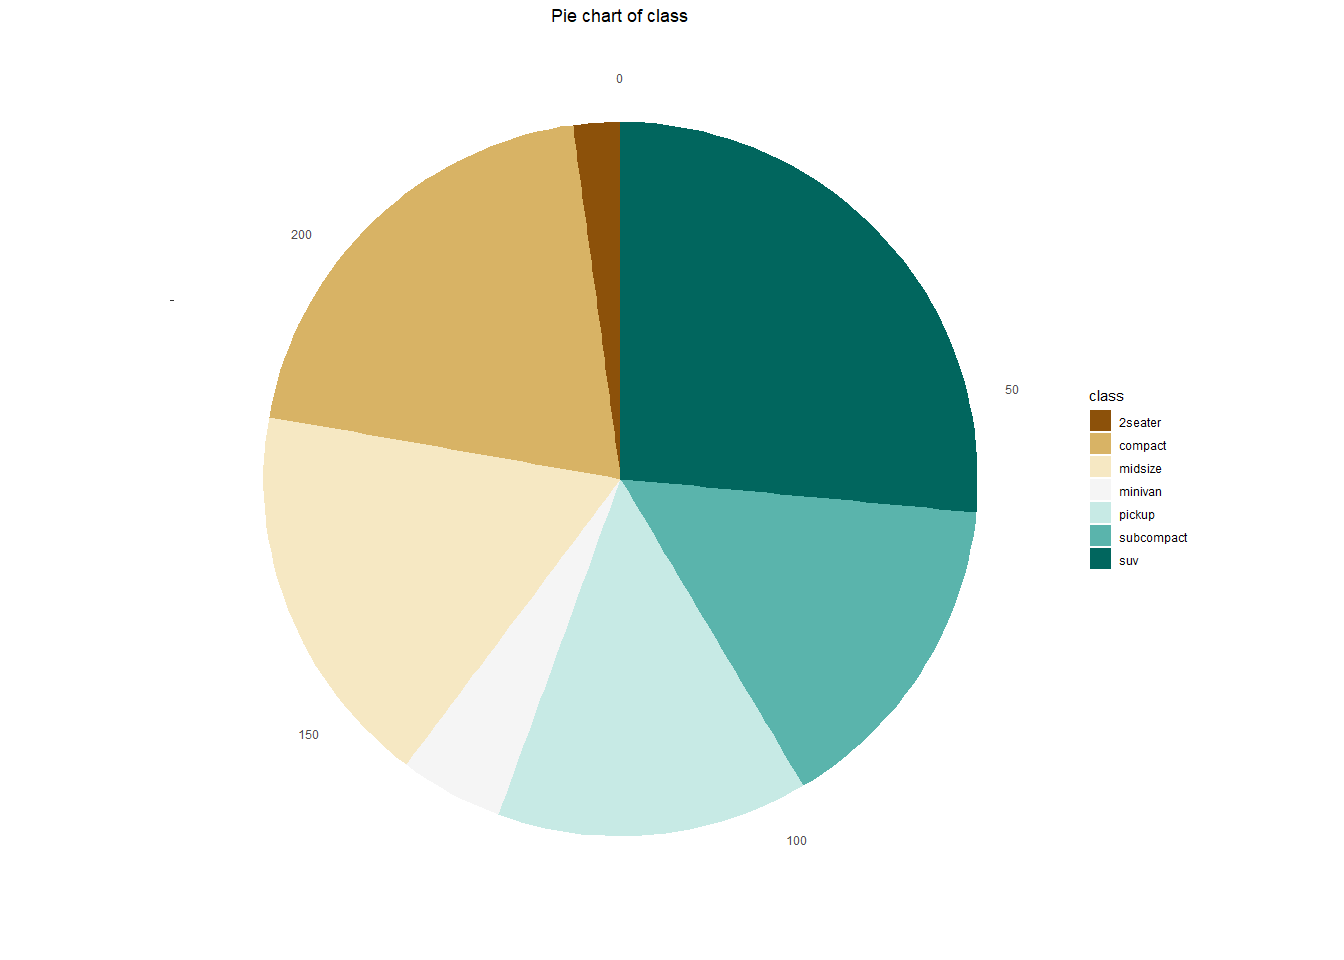
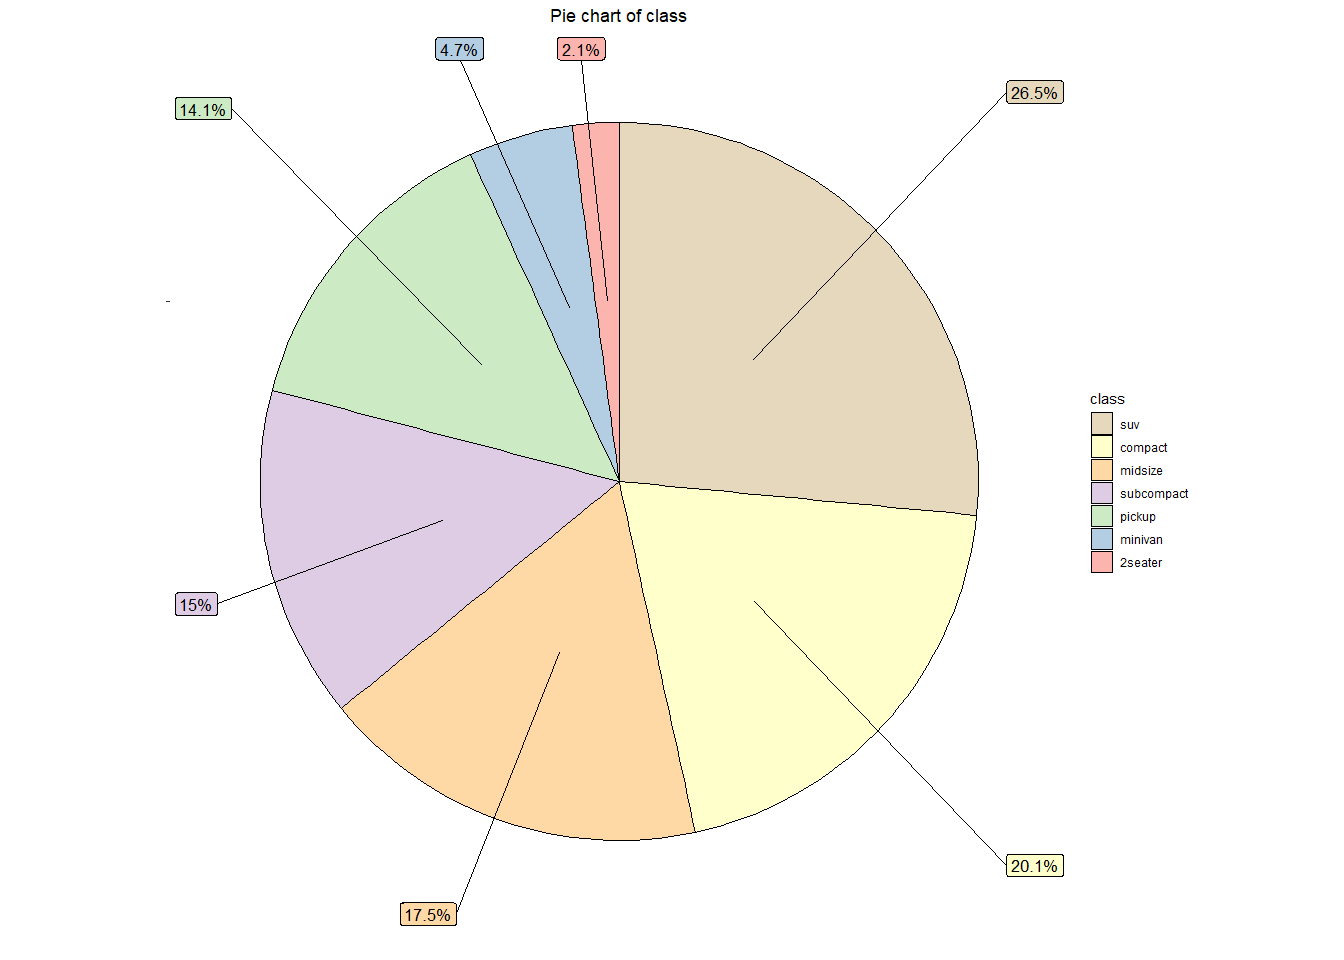
.

diff --git a/_posts/visualization/2022-06-22-visualization-summary.md b/_posts/visualization/2022-06-22-visualization-summary.md
@@ -553,19 +553,40 @@ ggplot(df, aes(x = x, y = y, fill = category)) +
 구성을 보여주는 전형적인 방법인 원형 차트는 전달된 정보의 관점에서 와플 차트와 거의 동일하다. `geom_bar()`와 `coord_polar()을` 활용하여 구현할 수 있다.
 
 ```r
+library(dplyr)
+library(forcats)
 library(ggplot2)
-theme_set(theme_classic())
+library(ggrepel)
+
+# prepare data
+df <- mpg %>% 
+  group_by(class) %>% 
+  summarize(cnt = n()) %>% 
+  mutate(prop = round((cnt / sum(cnt)) * 100, 1)) %>% 
+  arrange(prop)
+
+text_df <- df %>% 
+    mutate(csum = rev(cumsum(rev(prop))), 
+         pos = prop/2 + lead(csum, 1),
+         pos = if_else(is.na(pos), prop/2, pos))
 
 # pie chart
-ggplot(mpg, aes(x = "", fill = factor(class))) + 
-  geom_bar(width = 1) + 
-  theme(axis.line = element_blank(), plot.title = element_text(hjust = 0.5)) +
-  labs(title = "Pie chart of class", 
-       fill = "class", 
-       x = "", 
-       y = "") + 
+df %>% 
+  ggplot(aes(x = "", y = prop, fill = fct_inorder(class))) +
+  geom_bar(color = "black", stat = "identity") +
   coord_polar(theta = "y", start = 0) +
-  scale_fill_brewer(palette = "BrBG")
+  geom_label_repel(data = text_df,
+                   aes(y = pos, label = paste0(prop, "%")),
+                   size = 4.5, nudge_x = 1, show.legend = FALSE) +
+  guides(fill = guide_legend(reverse = TRUE)) +
+  theme(axis.line = element_blank(), 
+        axis.text = element_blank(), 
+        plot.title = element_text(hjust = 0.5)) +
+  labs(x = "", 
+       y = "", 
+       title = "Pie chart of class", 
+       fill = "class") + 
+  scale_fill_brewer(palette = "Pastel1")
 ```
 
 ![](/public/img/2022-06-22-visualization-summary/pie_chart-1.png)
